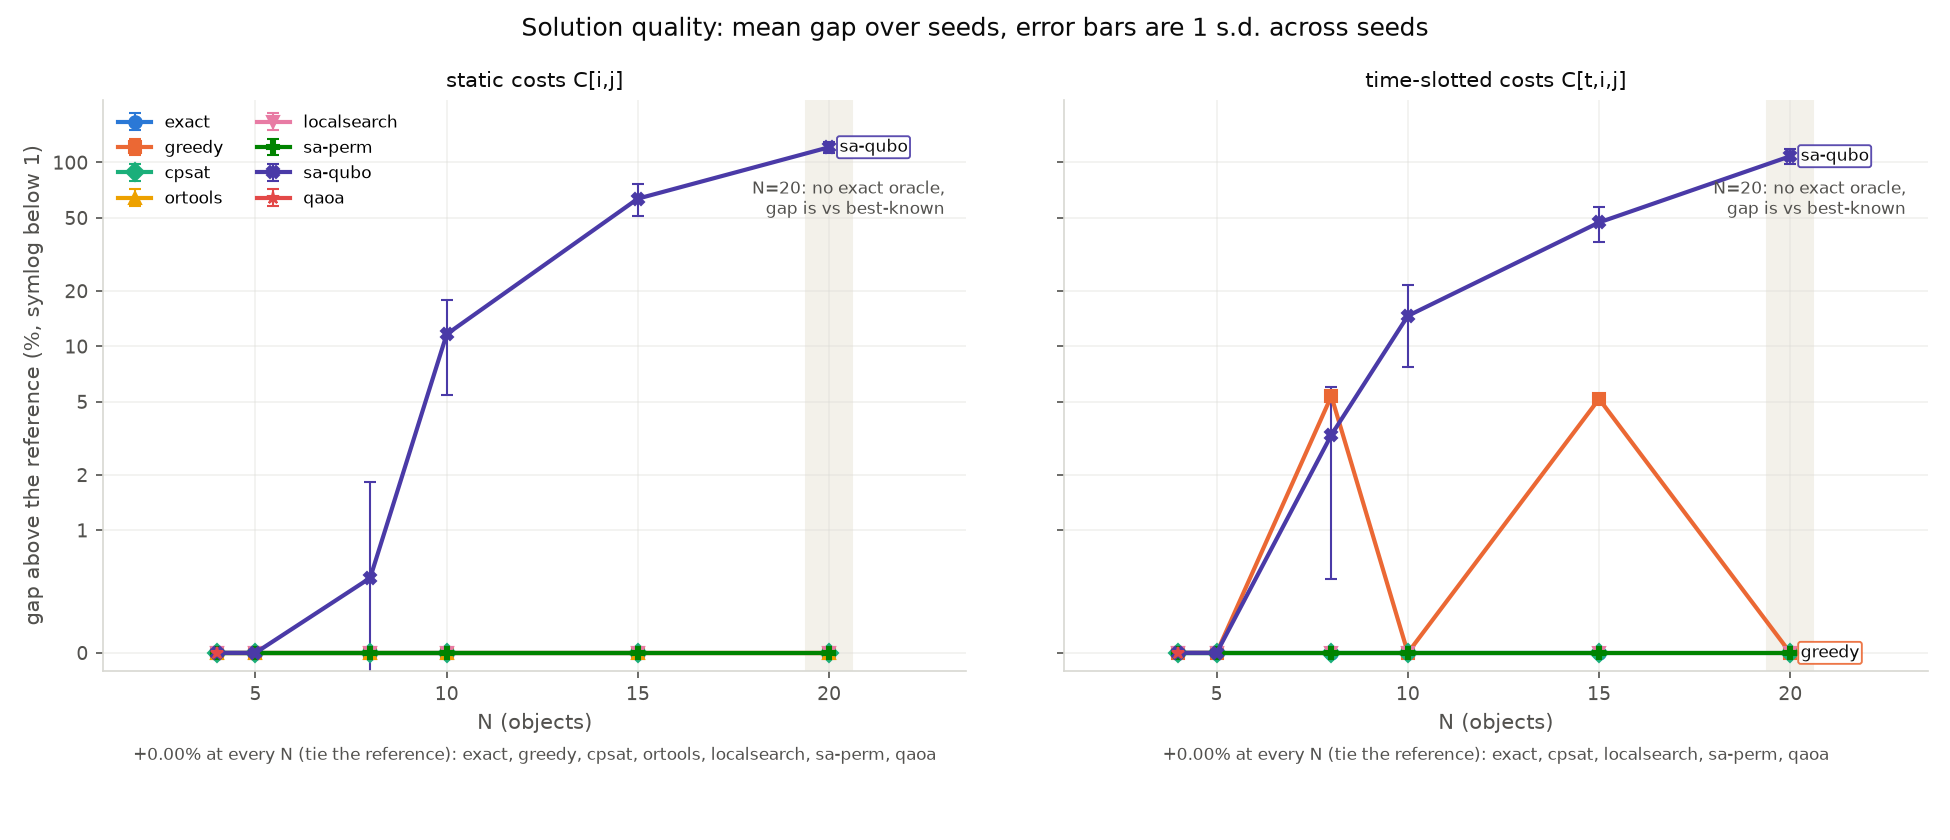
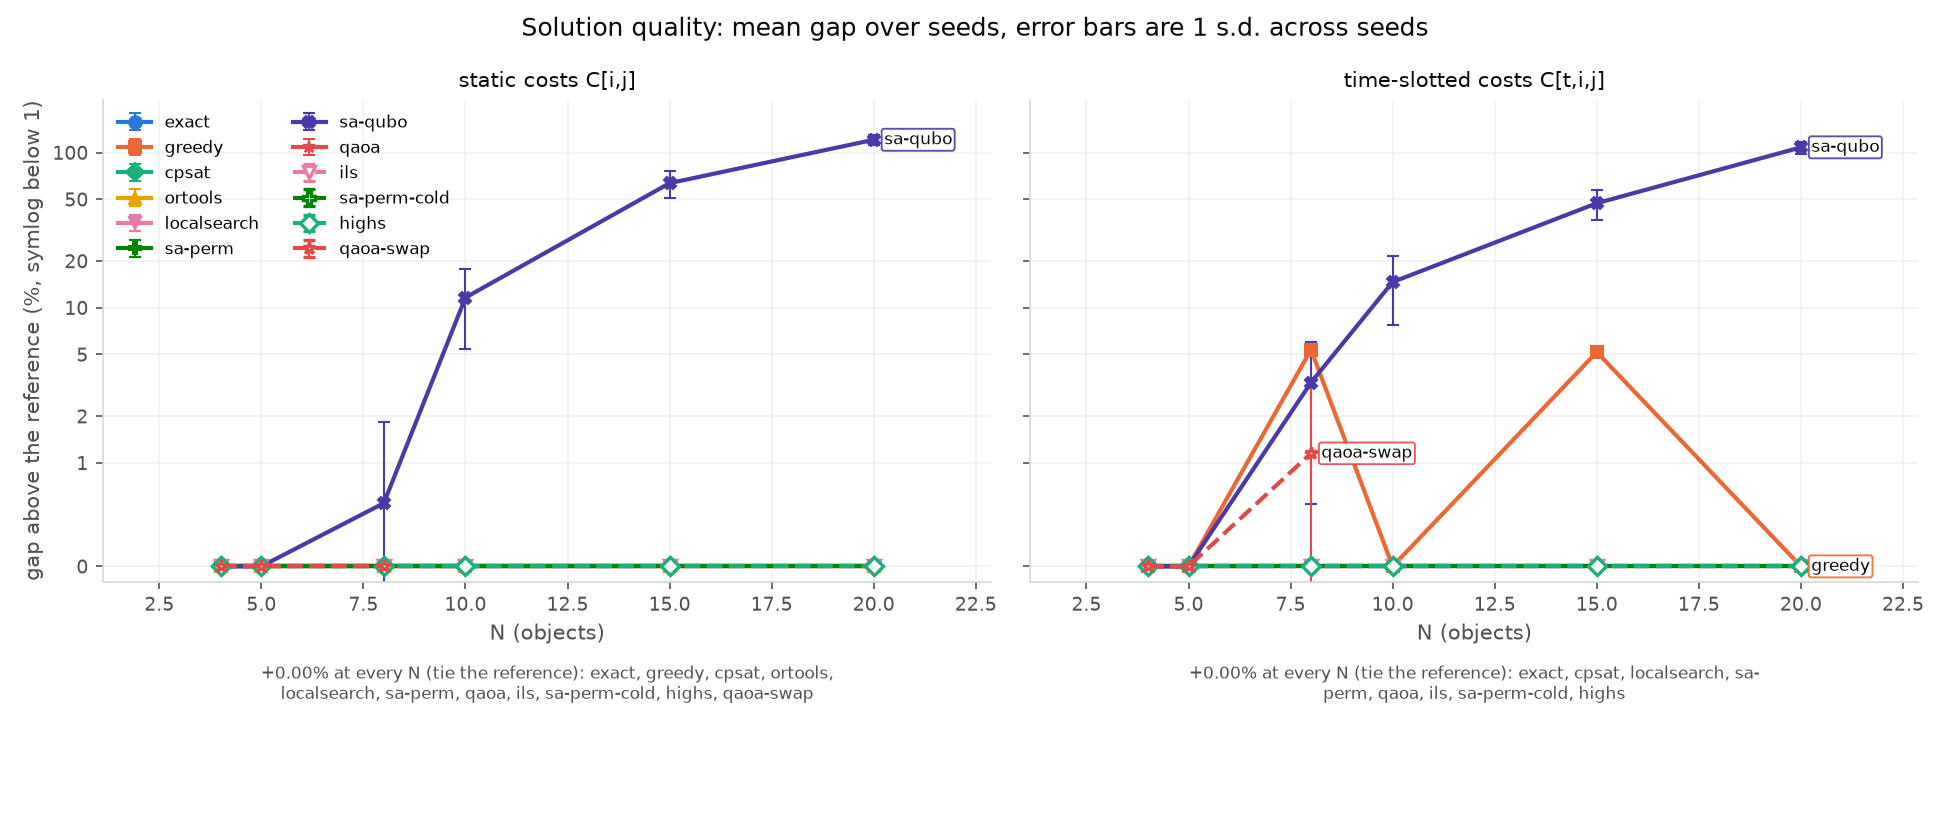
Regenerate figures from the three canonical runs
bench_* from v1, bench_v2_* and bench_v3_* from v2/v3, including the
per-instance gap/bound figures. plot_benchmark.py wraps the "tie the
reference at every N" caption, which had outgrown its panel with thirteen
solvers. penalty sweep and route figures are byte-identical.

diff --git a/scripts/plot_benchmark.py b/scripts/plot_benchmark.py
@@ -21,6 +21,7 @@ from __future__ import annotations
 import argparse
 import csv
 import json
+import textwrap
 from pathlib import Path
 
 import numpy as np
@@ -190,9 +191,12 @@ def figure_gap_vs_n(summary: list[dict[str, str]], out: Path, prefix: str = "ben
             else:
                 tied.append(solver)
         if tied:
+            # Wrapped: with thirteen solvers the list outgrew the panel and the
+            # two panels' captions ran into each other.
             ax.annotate(
-                "+0.00% at every N (tie the reference): " + ", ".join(tied),
-                xy=(0.5, -0.155),
+                textwrap.fill("+0.00% at every N (tie the reference): " + ", ".join(tied), 70),
+                xy=(0.5, -0.17),
+                va="top",
                 xycoords="axes fraction",
                 fontsize=8,
                 color=INK_SOFT,
@@ -239,7 +243,7 @@ def figure_gap_vs_n(summary: list[dict[str, str]], out: Path, prefix: str = "ben
         fontsize=12,
         color=INK,
     )
-    fig.tight_layout(rect=(0, 0.05, 1, 1))
+    fig.tight_layout(rect=(0, 0.1, 1, 1))
     path = out / f"{prefix}_gap_vs_n.png"
     fig.savefig(path, dpi=150, facecolor="white")
     plt.close(fig)
